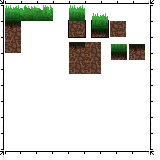
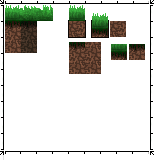
Added new BackgroundTexture

Changed region(s): [[0.125, 0.125, 0.25, 0.3438]]

diff --git a/core/src/ch/coldpixel/alpha/level/Level.java b/core/src/ch/coldpixel/alpha/level/Level.java
@@ -36,6 +36,7 @@ public class Level {
     private final TextureRegion arrSurface[];
     private final TextureRegion surfaceToGround;
     private final TextureRegion ground0;
+    private final TextureRegion backGround0;
     //Environment
     private final TextureRegion stairs;
     private final TextureRegion spikeTrap;
@@ -74,6 +75,7 @@ public class Level {
         arrSurface[2] = textureLoader.getSurface2();
         surfaceToGround = textureLoader.getSurfaceToGround();
         ground0 = textureLoader.getGround0();
+        backGround0 = textureLoader.getBackGround0();
         //Spritebatch
         batchDynamic = new SpriteBatch();
         batchStatic = new SpriteBatch();
@@ -118,6 +120,9 @@ public class Level {
         //Terrain old        
         drawRegion(false, surfaceToGround, 0, 16, 35, 1, 16, 16, true, false);
         drawRegion(false, ground0, 0, 0, 35, 1, 16, 16, true, false);
+        drawRegion(false, ground0, 0, -16, 35, 1, 16, 16, true, false);
+        //Background
+        drawRegion(false, backGround0, 0, 32, 30, 10, 16, 16, false, false);
         //Surface
         for (int i = 0; i < arrRandom.size(); i++) {
             //Generates surface, based on random generated numbers in arrRandom

diff --git a/core/src/ch/coldpixel/alpha/level/TextureLoader.java b/core/src/ch/coldpixel/alpha/level/TextureLoader.java
@@ -36,6 +36,7 @@ public class TextureLoader {
     private final TextureRegion surface2;
     private final TextureRegion surfaceToGround;
     private final TextureRegion ground0;
+    private final TextureRegion backGround0;
 
 //==============================================================================
 //Methods
@@ -58,6 +59,7 @@ public class TextureLoader {
         surface2 = new TextureRegion(terrain, 37, 5, 16, 16);
         surfaceToGround = new TextureRegion(terrain, 5, 21, 16, 16);
         ground0 = new TextureRegion(terrain, 5, 37, 16, 16);
+        backGround0 = new TextureRegion(terrain, 21, 37, 16,16);
 
     }
 
@@ -106,6 +108,10 @@ public class TextureLoader {
 
     public TextureRegion getSurfaceToGround() {
         return surfaceToGround;
+    }
+
+    public TextureRegion getBackGround0() {
+        return backGround0;
     }
 
 }
